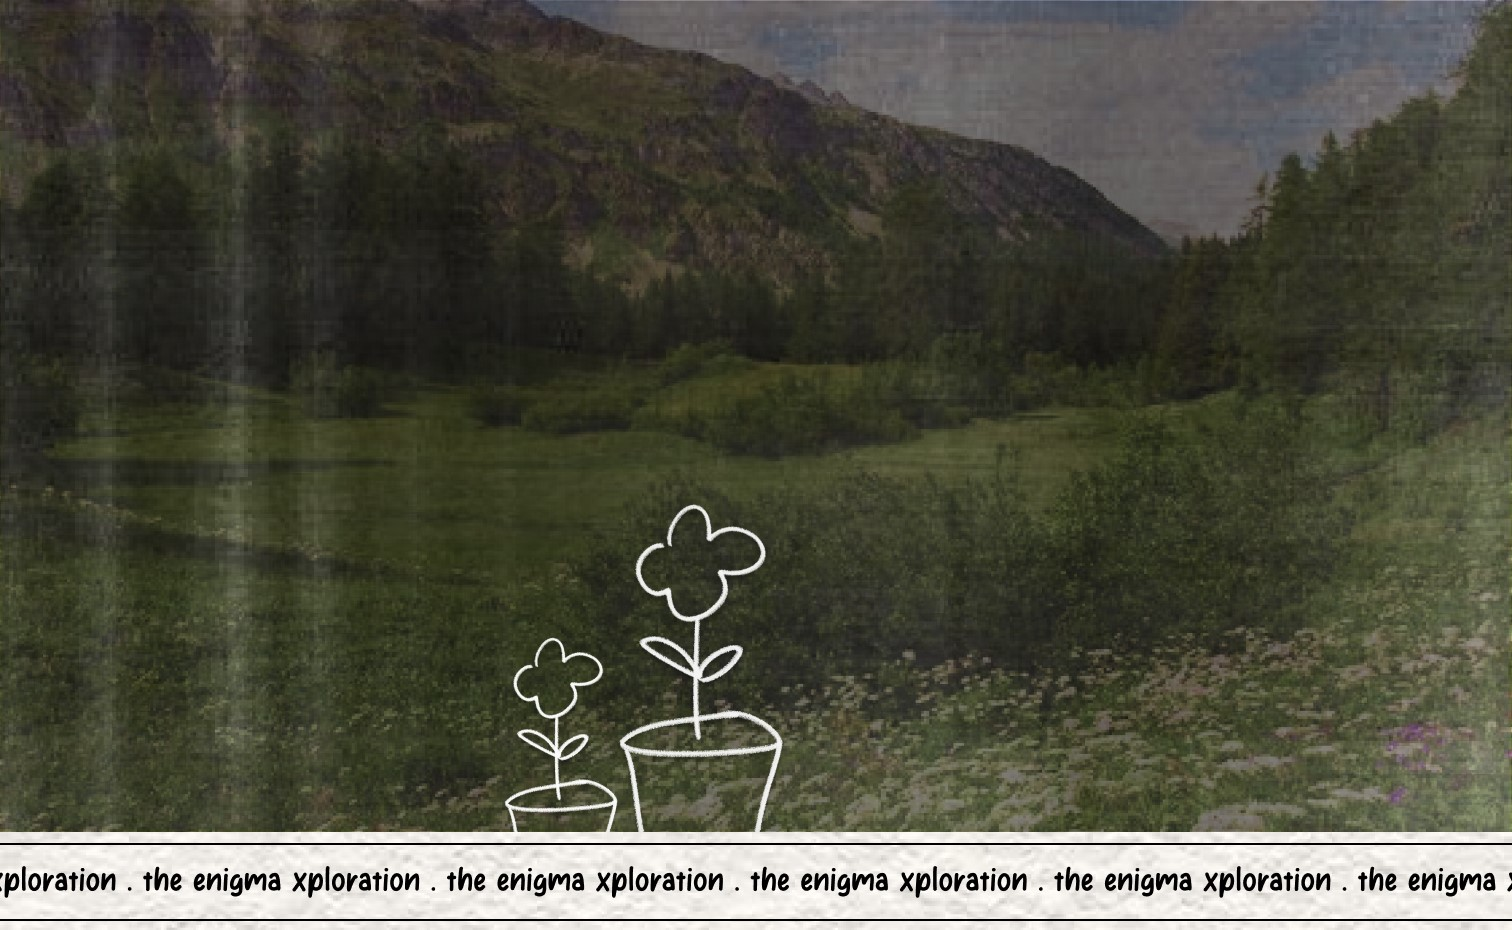
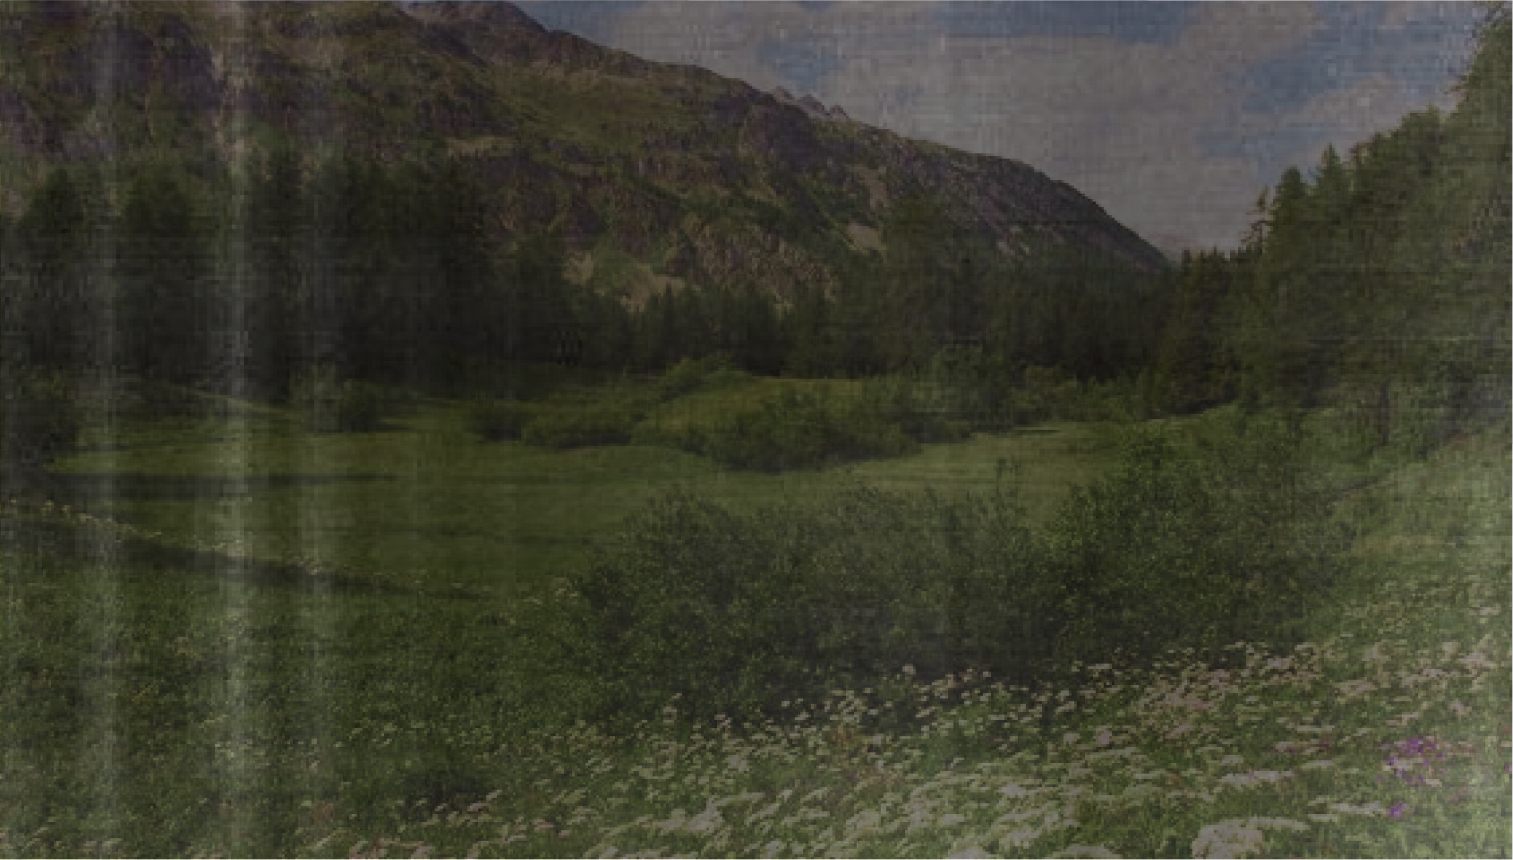
Update 12

diff --git a/resources/js/Pages/Preevent1After.jsx b/resources/js/Pages/Preevent1After.jsx
@@ -1,5 +1,6 @@
 import React from 'react';
 import { Head, router } from '@inertiajs/react'
+import Typewriter from "typewriter-effect";
 
 export default function Preevent1After() {
   return (
@@ -7,19 +8,35 @@ export default function Preevent1After() {
         <Head title="Pre Event" />
 
         {/* <div className='min-h-screen'> */}
-            <div className="bg-cover bg-no-repeat min-h-screen lg:bg-[url('../../../public/assets/bg4.jpg')] bg-[url('../../../public/assets/bg3.jpg')]">
-                <div className='grid grid-cols-1 lg:grid-cols-2 justify-items-center lg:justify-items-start lg:ms-[63px]'>
-                    <div className='mt-[86px] lg:mt-[302px]'>
-                        <p className='font-canopee text-[47px] lg:text-custom5 text-[#E79B08] text-center lg:text-left'>THE ENIGMA</p>
-                        <p className='font-canopee text-[47px] lg:text-custom5 text-[#E79B08] text-center mt-[4px] lg:mt-[18px]'>XPLORATION</p>
+            <div className="bg-cover bg-no-repeat min-h-screen xl:bg-[url('../../../public/assets/bg4.jpg')] bg-[url('../../../public/assets/bg3.jpg')] z-0">
+                <div className='grid grid-cols-1 xl:grid-cols-2 grid-rows-1 justify-items-center'>
+                    <div className='w-[163px] md:w-[232px] xl:w-[452px] h-fit rounded-full bg-[#104F55] px-4 xl:px-7 xl:py-3 py-1 border-white border-2 drop-shadow-custom1 mt-[50px] xl:mt-[67px] xl:col-span-2 flex justify-center z-10'>
+                        <img src="/assets/TEDxUniversitasAirlangga.png"/>
                     </div>
-                    <div className="lg:mt-[80px] lg:ms-[10px] mt-[50px] lg:w-[640px] lg:h-[679px] w-[315px] h-[210px] bg-cover lg:bg-[url('../../../public/assets/Deskripsi1.png')] bg-[url('../../../public/assets/Deskripsi.png')] flex flex-col items-center">
-                        <div className='w-[216px] lg:w-[536px] h-[56px] lg:h-[155px] lg:mt-[112px] mt-[35px] mx-[40px]'>
-                            <p className='font-lazymonday lg:text-custom8 text-custom6 text-[#104F55] text-center'>Drawing wisdom from the roots of our upbringing—the family—our quest leads us to unravel the enigma of parental influence.</p>
+                    <div className='mt-[86px] xl:mt-[302px] z-10'>
+                        <p className='font-canopee text-[47px] xl:text-custom5 text-[#E79B08] text-center xl:text-left'>THE ENIGMA</p>
+                        <div className='font-canopee text-[47px] xl:text-custom5 text-[#E79B08] mt-[4px] xl:mt-[18px]'>
+                            <Typewriter
+                                option={{ loop:true }}
+                                onInit={(typewriter) => {
+                                    typewriter
+                                    .typeString("XPLORATION")
+                                    .start()
+                                    .pauseFor(1000)
+                                }}
+                            />
                         </div>
-                        <div className='w-[243px] lg:w-[476px] h-[56px] lg:h-[207px] mt-[15px] lg:mt-[40px]'>
-                            <p className='font-lazymonday lg:text-custom9 text-custom7 text-black text-justify'>You are embarking on a journey with exciting horizons; maintain your determination and positivity as you tread this path. We will accompany you every step of the way, so remember to mark your calendar for our upcoming event!</p>
+                    </div>
+                    <div className="xl:mt-[80px] xl:ms-[10px] mt-[50px] xl:w-[640px] xl:h-[679px] w-[315px] h-[210px] bg-cover xl:bg-[url('../../../public/assets/Deskripsi1.png')] bg-[url('../../../public/assets/Deskripsi.png')] flex flex-col items-center z-10">
+                        <div className='w-[216px] xl:w-[536px] h-[56px] xl:h-[155px] xl:mt-[112px] mt-[35px] mx-[40px]'>
+                            <p className='font-lazymonday xl:text-custom8 text-custom6 text-[#104F55] text-center'>Drawing wisdom from the roots of our upbringing—the family—our quest leads us to unravel the enigma of parental influence.</p>
                         </div>
+                        <div className='w-[243px] xl:w-[476px] h-[56px] xl:h-[207px] mt-[15px] xl:mt-[40px] z-10 '>
+                            <p className='font-lazymonday xl:text-custom9 text-custom7 text-black text-justify'>You are embarking on a journey with exciting horizons; maintain your determination and positivity as you tread this path. We will accompany you every step of the way, so remember to mark your calendar for our upcoming event!</p>
+                        </div>
+                    </div>
+                    <div className='absolute inset-0'>
+                        <img src="/assets/flower.png" alt="flower" className=' z-[5] absolute bottom-0 right-0 lg:right-1/2 w-[150px] h-[170px]' />
                     </div>
                 </div>
             </div>

diff --git a/resources/js/Pages/Preevent1.jsx b/resources/js/Pages/Preevent1.jsx
@@ -111,7 +111,7 @@ export default function Preevent1({question}) {
                     exit={{ opacity: 0 }}
                     transition={{ duration: 0.2 }}
                 >
-                    <div className={'xl:mt-[152px] md:mt-[220px] md:mb-[205px] mt-[145px] mb-[139px] relative'}>
+                    <div className={'xl:mt-[152px] md:mt-[220px] md:mb-[205px] mt-[147px] mb-[139px] relative'}>
                         <div
                             className={"md:bg-[url('../../../public/assets/envelope-desktop.png')] bg-[url('../../../public/assets/envelope-android.png')] bg-contain bg-no-repeat xs:bg-cover duration-300 transition-all w-[270px] xs:w-[357px] h-[200px] md:w-[694px] md:h-[440px] xl:w-[1249px] xl:h-[797px] drop-shadow-xl " + ((hover) ? '-rotate-6' : "")}
                             onClick={() => setOpened(true)}
